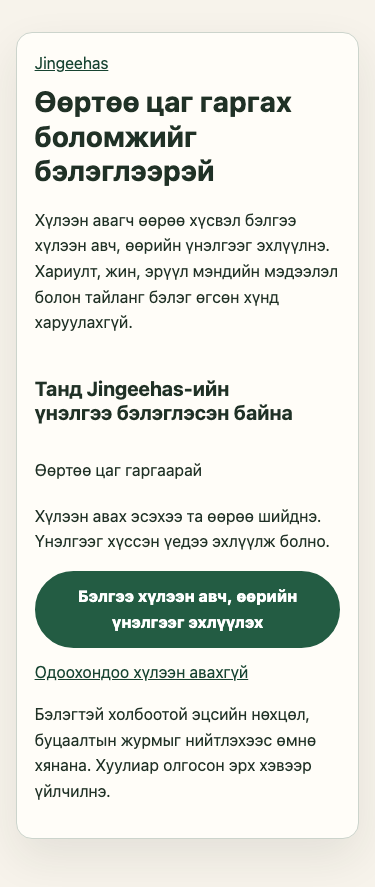
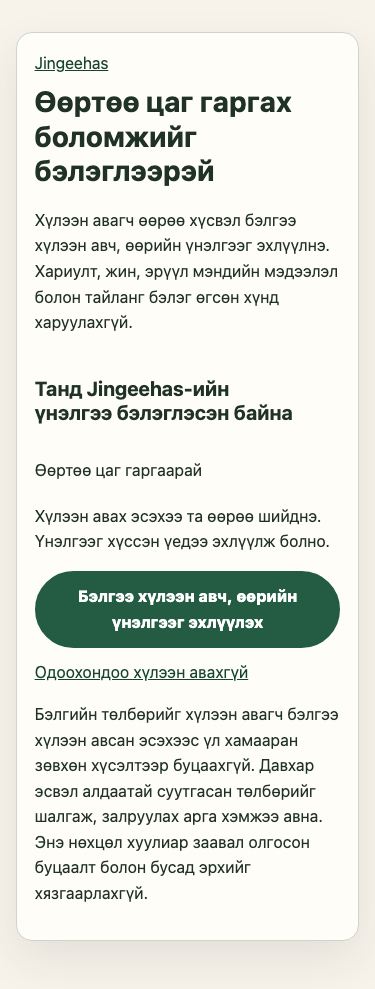
Apply owner no-discretionary-refund gift policy correction

Changed region(s): [[0.088, 0.5175, 0.9093, 0.9132], [0.088, 0.0609, 0.9093, 0.487], [0.088, 0.9436, 0.9093, 0.9741]]

diff --git a/gift.html b/gift.html
@@ -1,3 +1,3 @@
 <!doctype html>
 <html lang="mn"><head><meta charset="utf-8"><meta name="viewport" content="width=device-width,initial-scale=1"><meta name="referrer" content="no-referrer"><title>Jingeehas — бэлэг</title><link rel="stylesheet" href="/styles.css"><script src="/product-config.js" defer></script><script src="/gift.js" defer></script></head>
-<body><div class="page gift-page"><main class="content-card"><a href="/">Jingeehas</a><h1>Өөртөө цаг гаргах боломжийг бэлэглээрэй</h1><p>Хүлээн авагч өөрөө хүсвэл бэлгээ хүлээн авч, өөрийн үнэлгээг эхлүүлнэ. Хариулт, жин, эрүүл мэндийн мэдээлэл болон тайланг бэлэг өгсөн хүнд харуулахгүй.</p><div id="gift"></div><p id="gift-status" role="status" aria-live="polite"></p><p>Бэлэгтэй холбоотой эцсийн нөхцөл, буцаалтын журмыг нийтлэхээс өмнө хянана. Хуулиар олгосон эрх хэвээр үйлчилнэ.</p></main></div></body></html>
+<body><div class="page gift-page"><main class="content-card"><a href="/">Jingeehas</a><h1>Өөртөө цаг гаргах боломжийг бэлэглээрэй</h1><p>Хүлээн авагч өөрөө хүсвэл бэлгээ хүлээн авч, өөрийн үнэлгээг эхлүүлнэ. Хариулт, жин, эрүүл мэндийн мэдээлэл болон тайланг бэлэг өгсөн хүнд харуулахгүй.</p><div id="gift"></div><p id="gift-status" role="status" aria-live="polite"></p><p>Бэлгийн төлбөрийг хүлээн авагч бэлгээ хүлээн авсан эсэхээс үл хамааран зөвхөн хүсэлтээр буцаахгүй. Давхар эсвэл алдаатай суутгасан төлбөрийг шалгаж, залруулах арга хэмжээ авна. Энэ нөхцөл хуулиар заавал олгосон буцаалт болон бусад эрхийг хязгаарлахгүй.</p></main></div></body></html>

diff --git a/docs/gifting/CUSTOMER_TERMS_PENDING.md b/docs/gifting/CUSTOMER_TERMS_PENDING.md
@@ -12,7 +12,7 @@
 
 Худалдан авагч зөвхөн захиалга, төлбөр болон бэлэг ашиглагдсан эсэхийг харна. Хүлээн авагчийн нэр, хариулт, жин, эрүүл мэндийн мэдээлэл, үнэлгээний тайланг харуулахгүй. Бэлгийн төлбөр нь бусдын хувийн тайланд хандах эрх үүсгэхгүй.
 
-Хүлээн авахаас өмнө худалдан авагч буцаалтын хүсэлт гаргаж болно. Хүсэлтийг захиалга, төлбөр болон худалдан авагчийн эрхийг баталгаажуулсны дараа шийдвэрлэнэ. Хүлээн авсан бэлэгтэй холбоотой үйлчилгээ, төлбөрийн доголдлыг тус бүрд нь авч үзнэ. Энэ журам хуулиар олгосон буцаалт болон бусад эрхийг хязгаарлахгүй. Хүсэлт гаргах боломж нь шууд, автоматаар буцаах амлалт биш; нийтлэхээс өмнө шийдвэрлэх хугацаа, хариуцсан оператор, төлбөр буцаах аргыг батална.
+Бэлгийн төлбөрийг хүлээн авагч бэлгээ хүлээн авсан эсэхээс үл хамааран зөвхөн хүсэлтээр буцаахгүй. Давхар эсвэл алдаатай суутгасан төлбөрийг шалгаж, залруулах арга хэмжээ авна. Энэ нөхцөл хуулиар заавал олгосон буцаалт болон бусад эрхийг хязгаарлахгүй. Үйлчилгээ, төлбөрийн доголдлыг шалгаж, холбогдох заавал хэрэгжүүлэх эрх, үүргийн дагуу шийдвэрлэнэ. Энэ төсөл нөхцөлийн хууль зүйн хүчин төгөлдөр байдлын талаар дүгнэлт гаргахгүй.
 
 ## Худалдан авагчид харуулах тусламжийн санал
 
@@ -22,10 +22,12 @@
 
 **Төлбөрийн хариу тодорхойгүй бол:** Дахин төлбөр бүү хийгээрэй. Захиалгын дугаараа хадгалж, төлбөрийг шалгах эсвэл тусламжийн сувгаар хандана уу. Одоо байгаа нэхэмжлэхийг шалгаж шийдвэрлэнэ.
 
-**Зогсоох хүсэлт:** Захиалгыг зогсоох хүсэлт нь QPay нэхэмжлэх хаагдсан баталгаа биш. Хаалтын дараа төлбөр бүртгэгдсэн бол мөнгийг шалгахаар хадгалж, автоматаар бэлгийн эрх олгохгүй. Баталгаажсан худалдан авагч төлбөрийн шийдэл хүсэх эсвэл бэлэг болгон үргэлжлүүлэхээ өөрөө сонгоно. Дахин төлбөр хийх шаардлагагүй.
+**Зогсоох хүсэлт:** Захиалгыг зогсоох хүсэлт нь QPay нэхэмжлэх хаагдсан баталгаа биш. Хаалтын дараа төлбөр бүртгэгдсэн бол мөнгийг шалгахаар хадгалж, автоматаар бэлгийн эрх олгохгүй. Баталгаажсан худалдан авагч бэлэг болгон үргэлжлүүлэхээ зөвшөөрч болно. Давхар эсвэл алдаатай суутгал болон хуулиар заавал шийдвэрлэх төлбөрийн асуудлыг тусад нь шалгана; зөвхөн хүсэлтээр буцаалт хийхгүй. Дахин төлбөр хийх шаардлагагүй.
 
 **Хүлээн авагчийн сэргээх эрх:** Үнэлгээгээ өөрийн хадгалсан сэргээх имэйл болон баталгаажуулалтын урсгалаар сэргээнэ. Худалдан авагчийн кодоор сэргээхгүй. Сэргээх холбоо барих мэдээлэл хадгалаагүй бол хувийн мэдээллийг бусдад өгөхгүй, ашигласан бэлгийг дахин тохируулахгүй; тусдаа баталгаажуулах журмыг хянана.
 
 ## Батлах нэг багц
 
-Дээрх үнэ/нэг хүлээн авагч/нууцлал, хугацаагүй ашиглаагүй эрх, сольж болох 30 хоногийн холбоос, хүлээн авахаас өмнөх буцаалтын хүсэлт, хүлээн авсны дараах үйлчилгээ/төлбөрийн доголдлыг тус бүрд шийдвэрлэх санал болон SUPPORT_AND_RELEASE.md дахь эзэмшигчийн баталгаажуулалтын журмыг хамтад нь батална. Буцаалтын шийдвэрлэх хугацаа, оператор, баталгаажуулах баримтын шалгуур, буцаах арга нь нэрлэж батлах үлдсэн үйл ажиллагааны шийдвэрүүд. Батлах нь нийтлэх, шилжүүлэг хийх, тохиргоо солих зөвшөөрөл биш.
+Дээрх үнэ/нэг хүлээн авагч/нууцлал, хугацаагүй ашиглаагүй эрх, сольж болох 30 хоногийн холбоос, хүлээн авсан эсэхээс үл хамаарах зөвхөн хүсэлтээр буцаахгүй нөхцөл, давхар/алдаатай суутгалын залруулга болон заавал хэрэгжүүлэх хууль ёсны эрх болон SUPPORT_AND_RELEASE.md дахь эзэмшигчийн баталгаажуулалтын журмыг хамтад нь батална. Төлбөрийн зөрчлийг шийдвэрлэх хугацаа, оператор, баталгаажуулах баримтын шалгуур, шаардлагатай залруулгын арга нь нэрлэж батлах үлдсэн үйл ажиллагааны шийдвэрүүд. Батлах нь нийтлэх, шилжүүлэг хийх, тохиргоо солих зөвшөөрөл биш.
+
+2026-10-10: Эзэмшигчийн “буцаалт хийхгүй ээ” зааврын дагуу зөвхөн хүсэлтээр хийх буцаалтыг хүлээн авахаас өмнө ч санал болгохгүй. Нийтлэх болон үйлдвэрлэлийн өөрчлөлтийн зөвшөөрөл олгоогүй.

diff --git a/docs/gifting/SUPPORT_AND_RELEASE.md b/docs/gifting/SUPPORT_AND_RELEASE.md
@@ -26,7 +26,7 @@ All mutations require an `operationKey` UUID and an opaque `evidenceRef` (8–80
 1. **lookup / check**: identify order by the buyer's displayed order reference. Read merchant sender/invoice references as owner; check invokes the existing authenticated QPay payment-check implementation. It does not create an invoice or send a message.
 2. **attach_invoice**: independently verify the existing merchant invoice belongs to this order's exact stored sender reference and server amount. Supply its `invoiceId` and `providerReferenceVerified:true`. The binding is immutable, unique across gifts and cannot reference an existing ordinary checkout invoice. The backend checks the invoice for payment after attachment; merely attaching an invoice never establishes paid rights. For a previously closed/canceled order, payment becomes review-held.
 3. **close_unpaid**: obtain actual merchant confirmation that the invoice is void/closed and cannot intentionally collect further funds, or that no invoice exists. Absence of PAID rows today is **not** sufficient. Supply `providerClosedVerified:true`. The backend rechecks current payment when an invoice ID exists and SQL refuses closure of a confirmed paid order. Callback mapping remains for any unexpected late payment.
-4. **release_paid_value**: for paid-after-cancellation, authenticate the purchaser and obtain their explicit request to receive the gift rather than a payment remedy. Supply `buyerRequestedGift:true`. Only verified paid_review value can move to paid; no recipient assessment/entitlement is granted by this action. The buyer still shares the link and the recipient still explicitly accepts. Source-conflict reviews cannot be released through this route.
+4. **release_paid_value**: for paid-after-cancellation, authenticate the purchaser and obtain their explicit request to receive the gift as the resolution of the held order (no discretionary-refund alternative is offered). Supply `buyerRequestedGift:true`. Only verified paid_review value can move to paid; no recipient assessment/entitlement is granted by this action. The buyer still shares the link and the recipient still explicitly accepts. Source-conflict reviews cannot be released through this route.
 5. **rebind_buyer**: when buyer session and code are lost, require merchant payment/order evidence plus independent purchaser verification through the approved support process. Obtain the new authenticated buyer session ID, then supply `buyerSessionId` and `buyerVerified:true`. SQL requires that target session to be live. This is restricted to unclaimed orders; it revokes the old claim/recovery capabilities. It never adds an assessment_sessions row. The verified buyer generates new capabilities in their own session; support receives none.
 
 The verification flags are explicit owner attestations, **not automated identity or merchant proof**. Evidence review and operator conduct remain mandatory. This initial version supplies owner-authenticated operations and audit records, not an automated helpdesk/refund system. No refund or email send is performed. Recipient recovery continues through their own saved recovery email and existing verification flow; buyer evidence is never sufficient to recover recipient answers/report. If a recipient lacks a saved recovery contact, do not reset their claimed gift: require a separately designed recipient-verification process.
@@ -36,7 +36,7 @@ The verification flags are explicit owner attestations, **not automated identity
 - Unclaimed paid entitlement has no expiry; this is a proposed policy, not a verified existing Jingeehas promise. The bought value is retained when a link expires.
 - Link lifetime defaults to 30 days. Non-secret `JINGEEHAS_GIFT_LINK_DAYS` can configure 1–365 days; the public link response/copy reports that duration. No new configuration value was installed. Replacing a link invalidates its previous token.
 - Existing customer session lifetime remains 30 days. Buyer recovery code has no automatic expiry; hash-only storage, regeneration invalidates the previous code, and the UI offers a download. Treat the code as private, separate from the recipient link.
-- Refund/no-discretionary-refund terms are not implemented or verified. Recommend a buyer-verifiable remedy for unused gifts and payment/service failures while preserving mandatory rights; claimed-gift and safety-outcome remedies require owner/legal approval. Never disclose a safety category or health answer to justify a buyer remedy.
+- Owner correction 2026-10-10: no discretionary refunds, including before claim. Do not offer an unused-gift/change-of-mind refund. Verify and correct duplicate or erroneous charges, and preserve any mandatory statutory remedies for service/payment failures. No enforceability conclusion is made. Late paid_review funds remain recorded; owner must resolve legitimate payment discrepancies/mandatory rights or obtain buyer consent to release an unclaimed gift, never discard funds or infer refund authority. Never disclose recipient safety/health information to a purchaser. This API performs no refund.
 - Buyer sees only payment/order-used state. First valid accepting recipient binds once; self-gift remains explicit. No unsolicited recipient emails are sent.
 
 ## Infrastructure logging acceptance requirements

diff --git a/docs/gifting/REVIEW.md b/docs/gifting/REVIEW.md
@@ -63,8 +63,10 @@ PGlite serializes commands within one engine. Independent connection validation 
 
 See [SUPPORT_AND_RELEASE.md](SUPPORT_AND_RELEASE.md) for state-by-state reconciliation, owner attestation requirements, lost-code recovery and logging acceptance criteria. The support API is implemented and tested locally; merchant-ledger verification and buyer identity proof require an approved operational procedure before sales.
 
-Final gift/refund/consumer-rights terms, neutral Mongolian copy, self-gifting, link lifetime and offline recovery UX need owner review. No-expiry is implemented as a proposed entitlement policy; no discretionary-refund policy is not asserted, and statutory rights remain preserved. Safety-routed recipients and held paid value require an approved remedy process. Privacy-safe aggregate tracking/revenue reporting remains a product decision.
+Final gift/refund/consumer-rights terms, neutral Mongolian copy, self-gifting, link lifetime and offline recovery UX need owner review. No-expiry is implemented as a proposed entitlement policy; the owner now specifies no discretionary refunds, including before claim, with duplicate/erroneous-charge correction and mandatory statutory rights preserved; no enforceability conclusion is made. Safety-routed recipients and held paid value require an approved remedy process. Privacy-safe aggregate tracking/revenue reporting remains a product decision.
 
 Release requires a compatible Supabase CLI to generate the formal migration (the installed binary is incompatible), approved hosted auth/logging configuration checks, an authorized preview verification of the exact candidate, and separate release approval. No credentials or new permissions are needed for this local implementation. Gifting remains disabled. No push, deployment, production migration, real payment, live email or Library upload occurred.
 
 Update 2026-10-10: a standard review-only migration file is now prepared at supabase/migrations/20261010120835_add_review_only_gifting.sql under explicit user instruction, without installing a CLI. Executable body matches the tested proposal. It is not applied. CLI generation is no longer a blocker to the local artifact; release checks still include migration history/order, hosted schema parity, logging evidence and policy/preview/release approval. See HOSTED_READ_ONLY_REVIEW.md for completed configuration-only browser checks.
+
+Owner refund correction 2026-10-10: no discretionary refunds including before claim. Updated customer draft, gift page and support procedure consistently; mandatory rights and duplicate/erroneous-charge correction preserved without enforceability claims. Relevant checks PASS: gifting disposable SQL/mock tests, final focused browser 8/8, production package, git diff --check. This correction does not authorize preview or production release.

diff --git a/docs/gifting/HOSTED_READ_ONLY_REVIEW.md b/docs/gifting/HOSTED_READ_ONLY_REVIEW.md
@@ -20,7 +20,7 @@ Netlify published function metadata includes netlify-observability-extension ver
 
 ## Smallest remaining release scope
 
-1. Approve CUSTOMER_TERMS_PENDING.md and owner support procedure, naming response times, existing operator, purchaser verification criteria and refund mechanism. Drafts remain outside shipped assets.
+1. Approve CUSTOMER_TERMS_PENDING.md and owner support procedure, naming response times, existing operator, purchaser verification criteria and duplicate/erroneous-charge or mandatory-remedy mechanism (no discretionary refunds, including before claim). Drafts remain outside shipped assets.
 2. Confirm request/response body and authorization/cookie/capability capture/redaction/retention across Netlify observability, Supabase edge/API/proxy and any APM; inspect configuration read-only, no raw customer payloads. If unsafe settings are found, obtain explicit approval for only those changes.
 3. Generate the formal migration with a compatible already-available CLI/environment. The tested 180-line SQL proposal exists; installing/replacing this Mac's incompatible CLI is not authorized. Validate exact candidate on PostgreSQL 17 in separately authorized disposable/preview infrastructure, using mocks and no live email/payment.
 4. Only after those results: separately approve applying the Jingeehas-only migration, deploying the one existing gateway update plus static/Netlify candidate and enabling gifting. Reuse existing credentials. No ordinary schema/business-flow rewrite or new role/grant is needed for buyer/owner identity. Gift service-RPC/table permissions are limited to the proposal's existing service-role boundary.
